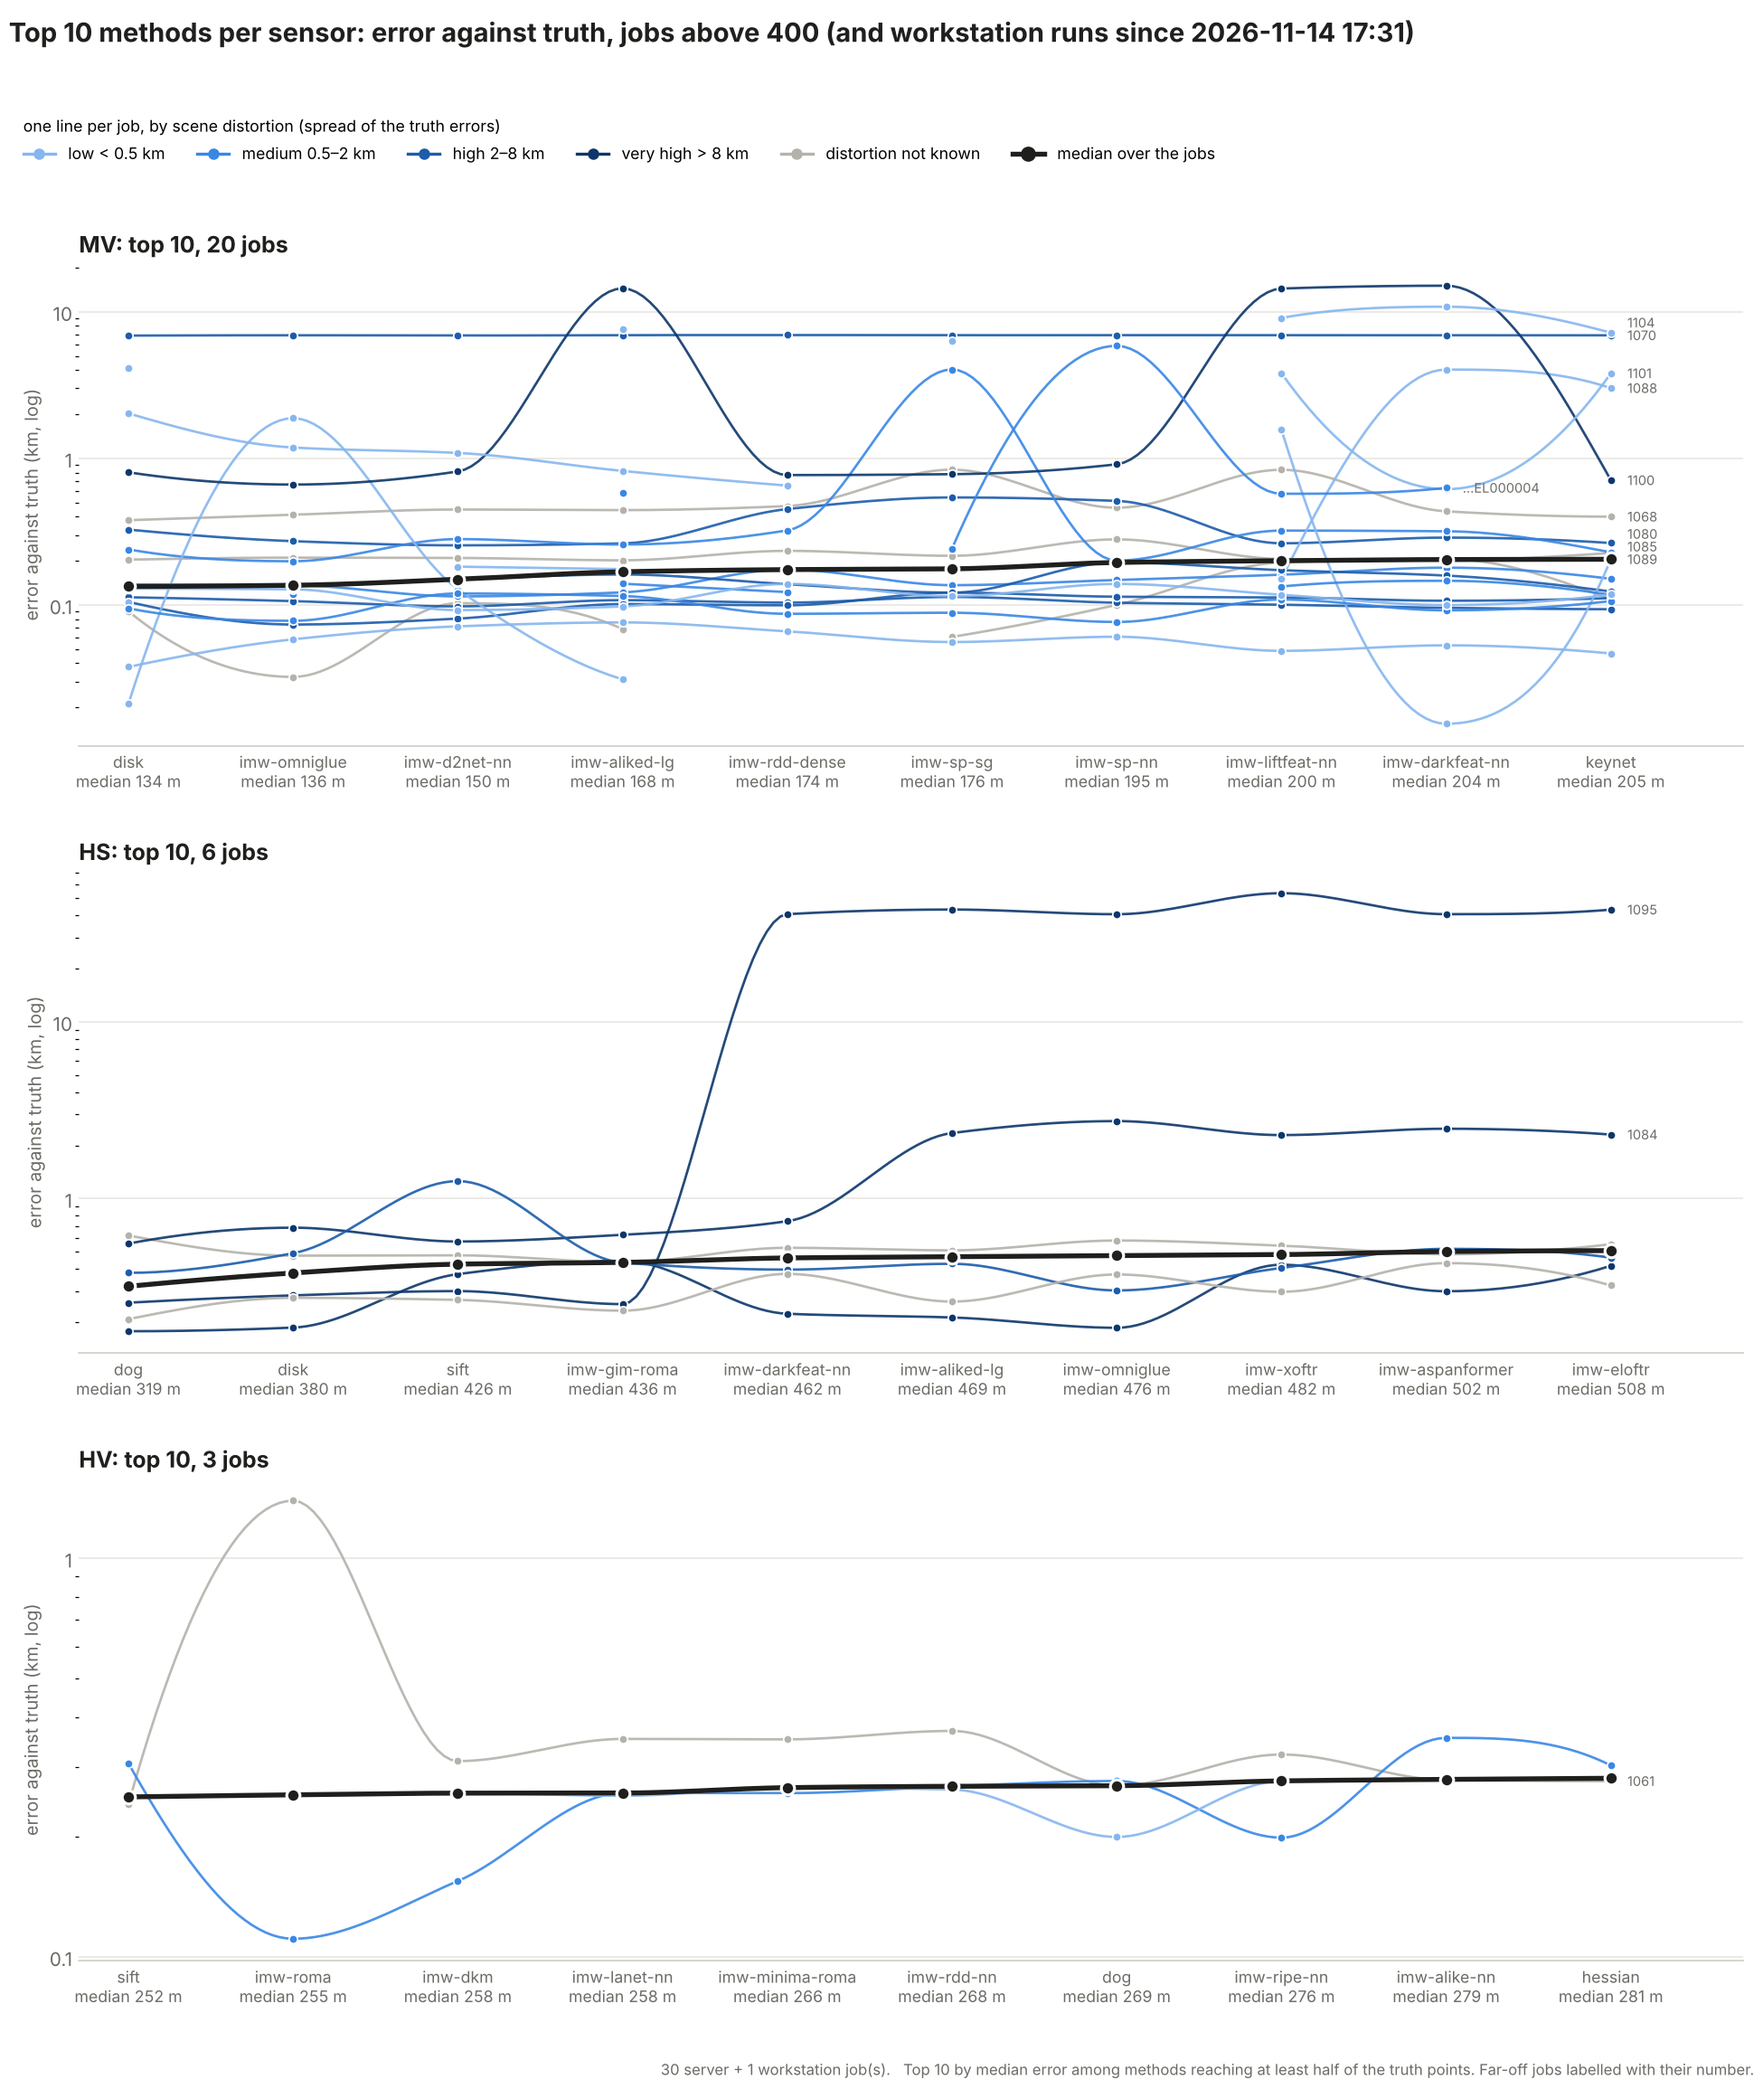
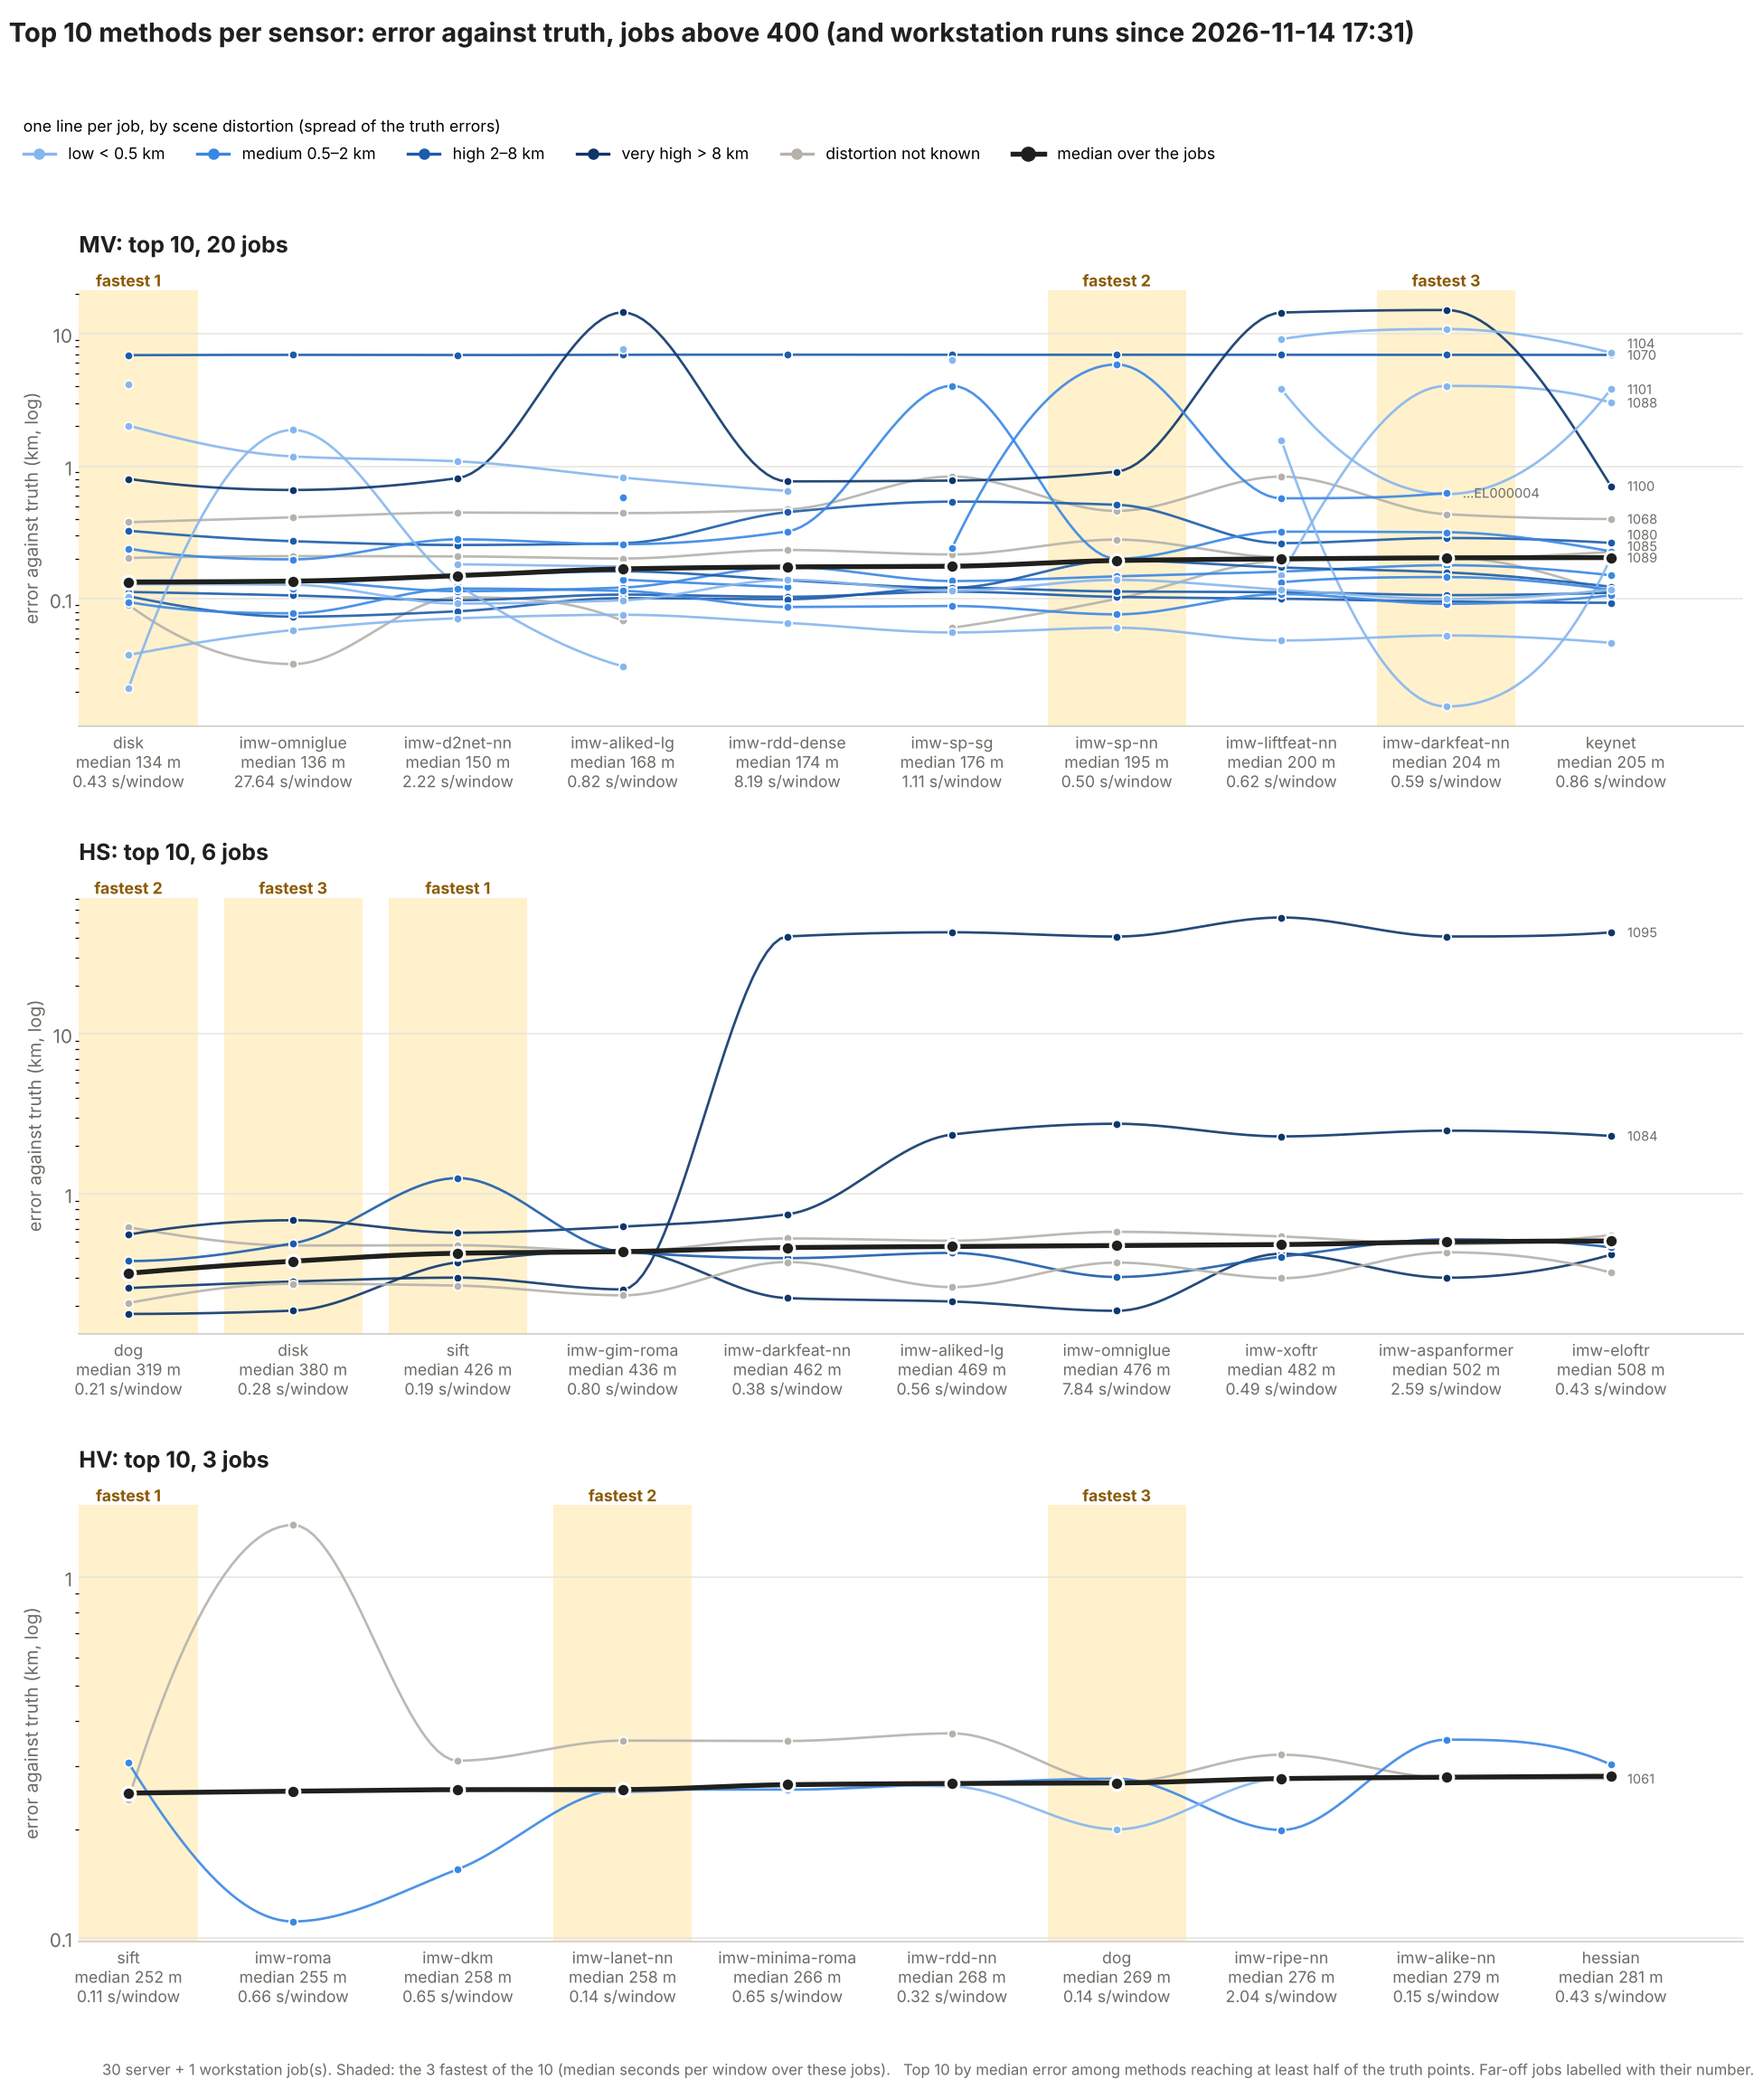
Top-10 plot: the 3 fastest methods shaded, seconds per window under each method
Claude-Session: https://claude.ai/code/session_0198cj5YTzAwzWGU6zUkU3Li

diff --git a/g1a_automatch/automatch_deviation.py b/g1a_automatch/automatch_deviation.py
@@ -130,7 +130,8 @@ def collect(log_dir: str):
         for r in best.itertuples():
             rows.append({'job': job, 'sensor': info['sensor'], 'spread_m': info['spread_m'], 'detector': r.family,
                          'variant': r.detector, 'matcher': r.matcher, 'truth_rmse_m': float(r.truth_rmse_m),
-                         'reached': int(r.truth_reached), 'total': int(r.truth_total)})
+                         'reached': int(r.truth_reached), 'total': int(r.truth_total),
+                         's_per_window': float(getattr(r, 'sec_per_window', float('nan')))})
     return pd.DataFrame(jobs), pd.DataFrame(rows)
 
 
@@ -265,7 +266,7 @@ def _smooth(x, y, n: int = 24):
 
 
 def plot_lines(table, png: str, top: int = 5, min_reach: float = 0.5, smooth: bool = False,
-               title: str = '', note: str = '') -> str:
+               title: str = '', note: str = '', fastest: int = 0) -> str:
     """Per sensor, its top methods on the x axis, the truth error on the y axis,
     one line per job through its errors with those methods (colour: the scene's
     distortion level, grey when not known); the median over the jobs bold."""
@@ -325,7 +326,21 @@ def plot_lines(table, png: str, top: int = 5, min_reach: float = 0.5, smooth: bo
         ax.set_yscale('log')
         ax.yaxis.set_major_formatter(matplotlib.ticker.FuncFormatter(lambda v, _p: f'{v:g}'))
         ax.set_xticks(x)
-        ax.set_xticklabels([f'{d}\nmedian {med[d]:.0f} m' for d in dets], rotation=0 if rows else 25,
+        spw = t.groupby('detector')['s_per_window'].median() if 's_per_window' in t else None
+        fast = []
+        if fastest and spw is not None:          # the quickest of these methods: a shaded band each
+            sp = spw.reindex(dets).dropna().sort_values()
+            fast = sp.index[:fastest].tolist()
+            for k, d in enumerate(fast):
+                i = dets.index(d)
+                ax.axvspan(i - 0.42, i + 0.42, color='#fff1cc', zorder=0, lw=0)
+                ax.text(i, 1.0, f'fastest {k + 1}', transform=ax.get_xaxis_transform(), ha='center', va='bottom',
+                        fontsize=8.5, fontweight='bold', color='#8a5a00')
+
+        def lab(d):
+            sec = f'\n{spw[d]:.2f} s/window' if spw is not None and d in spw and spw[d] == spw[d] else ''
+            return f'{d}\nmedian {med[d]:.0f} m' + sec
+        ax.set_xticklabels([lab(d) for d in dets], rotation=0 if rows else 25,
                            ha='center' if rows else 'right', fontsize=8.5 if rows else 9, color=INK)
         ax.set_xlim(-0.3, len(dets) - 0.2)
         ax.grid(axis='y', color='#e7e6e2', lw=0.8, zorder=0)
@@ -334,7 +349,7 @@ def plot_lines(table, png: str, top: int = 5, min_reach: float = 0.5, smooth: bo
             ax.spines[sp].set_visible(False)
         ax.spines['bottom'].set_color('#cfcdc6')
         ax.set_title(f'{s}: top {len(dets)}, {len(piv)} jobs', loc='left', fontsize=12, fontweight='bold',
-                     color=INK)
+                     color=INK, pad=20 if fast else 6)
     for ax in (axes if rows else axes[:1]):
         ax.set_ylabel('error against truth (km, log)', fontsize=9.5, color=MUTED)
     handles = [Line2D([], [], color=c, lw=1.6, marker='o', markersize=5, label=lab.replace('\n', ' '))
@@ -481,9 +496,11 @@ def main(argv=None) -> int:
         rt = table[table['job'].isin(sel)]
         n_ws = sum(1 for j in sel if is_workstation(j))
         png = plot_lines(rt, os.path.join(out, f'TOP10_BY_JOB_AFTER_{a.after_job}.png'), top=10, smooth=True,
+                         fastest=3,
                          title=f'Top 10 methods per sensor: error against truth, jobs above {a.after_job} '
                                f'(and workstation runs since {since})',
-                         note=f'{len(sel) - n_ws} server + {n_ws} workstation job(s).')
+                         note=f'{len(sel) - n_ws} server + {n_ws} workstation job(s). Shaded: the 3 fastest '
+                              f'of the 10 (median seconds per window over these jobs).')
         print(f'{len(sel)} job(s) above {a.after_job} / since {since} -> {png}')
     jobs, table = jobs[jobs['level'] != ''], table[table['level'] != '']
     jobs.round(1).to_csv(os.path.join(out, 'DEVIATION_JOBS.csv'), index=False)
